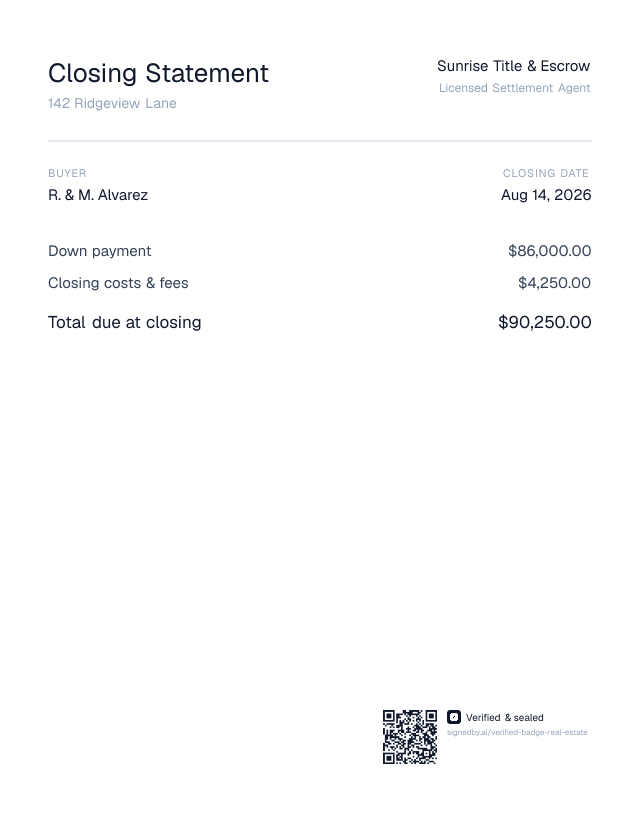
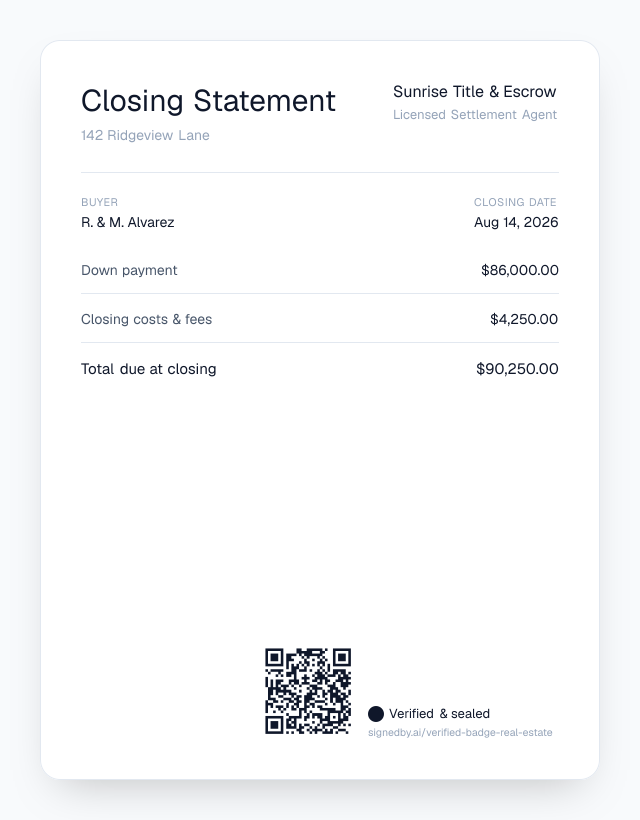
Fix unscannable QR on live /verified-badge-real-estate hero
Direct follow-up ask, 2026-08-08: "yes fix the /verified-badge-real-estate
issue also" -- found while checking the pitch deck's QR codes for the
same class of bug already fixed on /verified-badge (fake hash,
8b2fa93) and /verified-badge-invoices (undersized QR, fixed
incidentally via 8eb5fa3's deck work, same file is reused as that
page's hero).

public/hero-verified-badge-real-estate.png is the real hero on
/verified-badge-real-estate AND its opengraph-image.tsx share card.
The QR already encoded the correct URL
(signedby.ai/verified-badge-real-estate, matching the visible label
under it) -- this wasn't a wrong-destination bug, it just failed to
decode at all: too small a render with too thin a quiet zone once
embedded in the card and downscaled again on the page. Confirmed via
cv2's QR detector returning empty on the original file.

No source script existed for this asset, so scripts/generate-hero-
verified-badge-real-estate.tsx recreates the shipped closing-statement
mockup content exactly, with the same bigger-QR fix already applied to
the invoices page (300px source, margin 2, 96x96 on-card). Verified
the QR now decodes to the correct URL.

diff --git a/scripts/generate-hero-verified-badge-real-estate.tsx b/scripts/generate-hero-verified-badge-real-estate.tsx
@@ -1,0 +1,138 @@
+import fs from "node:fs/promises";
+import path from "node:path";
+import QRCode from "qrcode";
+import { ImageResponse } from "next/og";
+
+// Rebuild of /verified-badge-real-estate's hero (also reused as its
+// opengraph-image.tsx share card -- both load this exact file from disk).
+// Direct follow-up ask, 2026-08-08: "yes fix the /verified-badge-real-estate
+// issue also" -- found while checking the pitch deck's QR codes for the
+// same class of bug already fixed once on /verified-badge (fake hash) and
+// once on /verified-badge-invoices (undersized QR, see
+// generate-hero-verified-badge-invoice.tsx). This one was the same
+// undersized-QR problem as the invoices page, never fixed before: the QR
+// itself was a correct, real link to signedby.ai/verified-badge-real-estate
+// (matching the visible label under it), just too small and thin a quiet
+// zone to reliably scan once embedded in the card and downscaled again on
+// the page -- confirmed via cv2's QR detector returning empty on the
+// original file entirely.
+//
+// Same fix as the invoices page: bigger source render (300px, margin 2)
+// and a bigger on-card display size (96 vs whatever the original used),
+// same closing-statement mockup content (Closing Statement / 142 Ridgeview
+// Lane / Sunrise Title & Escrow / Licensed Settlement Agent / BUYER: R. &
+// M. Alvarez / CLOSING DATE: Aug 14, 2026 / Down payment $86,000.00 /
+// Closing costs & fees $4,250.00 / Total due at closing $90,250.00),
+// recreated to match the shipped visual since no source script for the
+// original existed in this repo.
+
+const WIDTH = 640;
+const HEIGHT = 820;
+const NAVY = "#0f172a";
+const SLATE = "#475569";
+const MUTED = "#94a3b8";
+const BORDER = "#e2e8f0";
+
+async function main() {
+  const verifyUrl = "https://signedby.ai/verified-badge-real-estate";
+  const qrDataUrl = await QRCode.toDataURL(verifyUrl, {
+    width: 300,
+    margin: 2,
+    color: { dark: NAVY, light: "#ffffffff" },
+  });
+
+  const image = new ImageResponse(
+    (
+      <div
+        style={{
+          width: WIDTH,
+          height: HEIGHT,
+          display: "flex",
+          flexDirection: "column",
+          backgroundColor: "#f8fafc",
+          padding: 40,
+        }}
+      >
+        <div
+          style={{
+            display: "flex",
+            flexDirection: "column",
+            flex: 1,
+            backgroundColor: "#ffffff",
+            borderRadius: 20,
+            border: `1px solid ${BORDER}`,
+            boxShadow: "0 20px 45px -20px rgba(15, 23, 42, 0.25)",
+            padding: 40,
+          }}
+        >
+          <div style={{ display: "flex", flexDirection: "row", justifyContent: "space-between" }}>
+            <div style={{ display: "flex", flexDirection: "column" }}>
+              <div style={{ display: "flex", fontSize: 30, fontWeight: 700, color: NAVY }}>Closing Statement</div>
+              <div style={{ marginTop: 6, display: "flex", fontSize: 14, color: MUTED }}>142 Ridgeview Lane</div>
+            </div>
+            <div style={{ display: "flex", flexDirection: "column", alignItems: "flex-end" }}>
+              <div style={{ display: "flex", fontSize: 16, fontWeight: 600, color: NAVY }}>Sunrise Title &amp; Escrow</div>
+              <div style={{ marginTop: 4, display: "flex", fontSize: 13, color: MUTED }}>Licensed Settlement Agent</div>
+            </div>
+          </div>
+
+          <div style={{ marginTop: 28, display: "flex", height: 1, backgroundColor: BORDER }} />
+
+          <div style={{ marginTop: 22, display: "flex", flexDirection: "row", justifyContent: "space-between" }}>
+            <div style={{ display: "flex", flexDirection: "column" }}>
+              <div style={{ display: "flex", fontSize: 11, fontWeight: 600, color: MUTED, letterSpacing: 0.5 }}>BUYER</div>
+              <div style={{ marginTop: 4, display: "flex", fontSize: 14, color: NAVY }}>R. &amp; M. Alvarez</div>
+            </div>
+            <div style={{ display: "flex", flexDirection: "column", alignItems: "flex-end" }}>
+              <div style={{ display: "flex", fontSize: 11, fontWeight: 600, color: MUTED, letterSpacing: 0.5 }}>CLOSING DATE</div>
+              <div style={{ marginTop: 4, display: "flex", fontSize: 14, color: NAVY }}>Aug 14, 2026</div>
+            </div>
+          </div>
+
+          <div style={{ marginTop: 30, display: "flex", flexDirection: "column", gap: 16 }}>
+            {[
+              ["Down payment", "$86,000.00"],
+              ["Closing costs & fees", "$4,250.00"],
+            ].map(([label, amount]) => (
+              <div key={label} style={{ display: "flex", flexDirection: "row", justifyContent: "space-between", borderBottom: `1px solid ${BORDER}`, paddingBottom: 14 }}>
+                <div style={{ display: "flex", fontSize: 14, color: SLATE }}>{label}</div>
+                <div style={{ display: "flex", fontSize: 14, color: NAVY }}>{amount}</div>
+              </div>
+            ))}
+            <div style={{ display: "flex", flexDirection: "row", justifyContent: "space-between" }}>
+              <div style={{ display: "flex", fontSize: 15, fontWeight: 700, color: NAVY }}>Total due at closing</div>
+              <div style={{ display: "flex", fontSize: 15, fontWeight: 700, color: NAVY }}>$90,250.00</div>
+            </div>
+          </div>
+
+          <div style={{ display: "flex", flex: 1 }} />
+
+          <div style={{ display: "flex", flexDirection: "row", justifyContent: "flex-end", alignItems: "flex-end", gap: 12 }}>
+            {/* eslint-disable-next-line @next/next/no-img-element -- Satori's renderer, not the DOM. */}
+            <img src={qrDataUrl} width={96} height={96} alt="" />
+            <div style={{ display: "flex", flexDirection: "column" }}>
+              <div style={{ display: "flex", alignItems: "center", gap: 5 }}>
+                <div style={{ display: "flex", width: 16, height: 16, borderRadius: 999, backgroundColor: NAVY }} />
+                <div style={{ display: "flex", fontSize: 13, fontWeight: 600, color: NAVY }}>Verified &amp; sealed</div>
+              </div>
+              <div style={{ marginTop: 3, display: "flex", fontSize: 10.5, color: MUTED }}>signedby.ai/verified-badge-real-estate</div>
+            </div>
+          </div>
+        </div>
+      </div>
+    ),
+    { width: WIDTH, height: HEIGHT }
+  );
+
+  return image;
+}
+
+async function run() {
+  const res = await main();
+  const buf = Buffer.from(await res.arrayBuffer());
+  const outPath = path.join(process.cwd(), "public", "hero-verified-badge-real-estate.png");
+  await fs.writeFile(outPath, buf);
+  console.log("wrote", outPath, buf.length, "bytes");
+}
+
+run();
